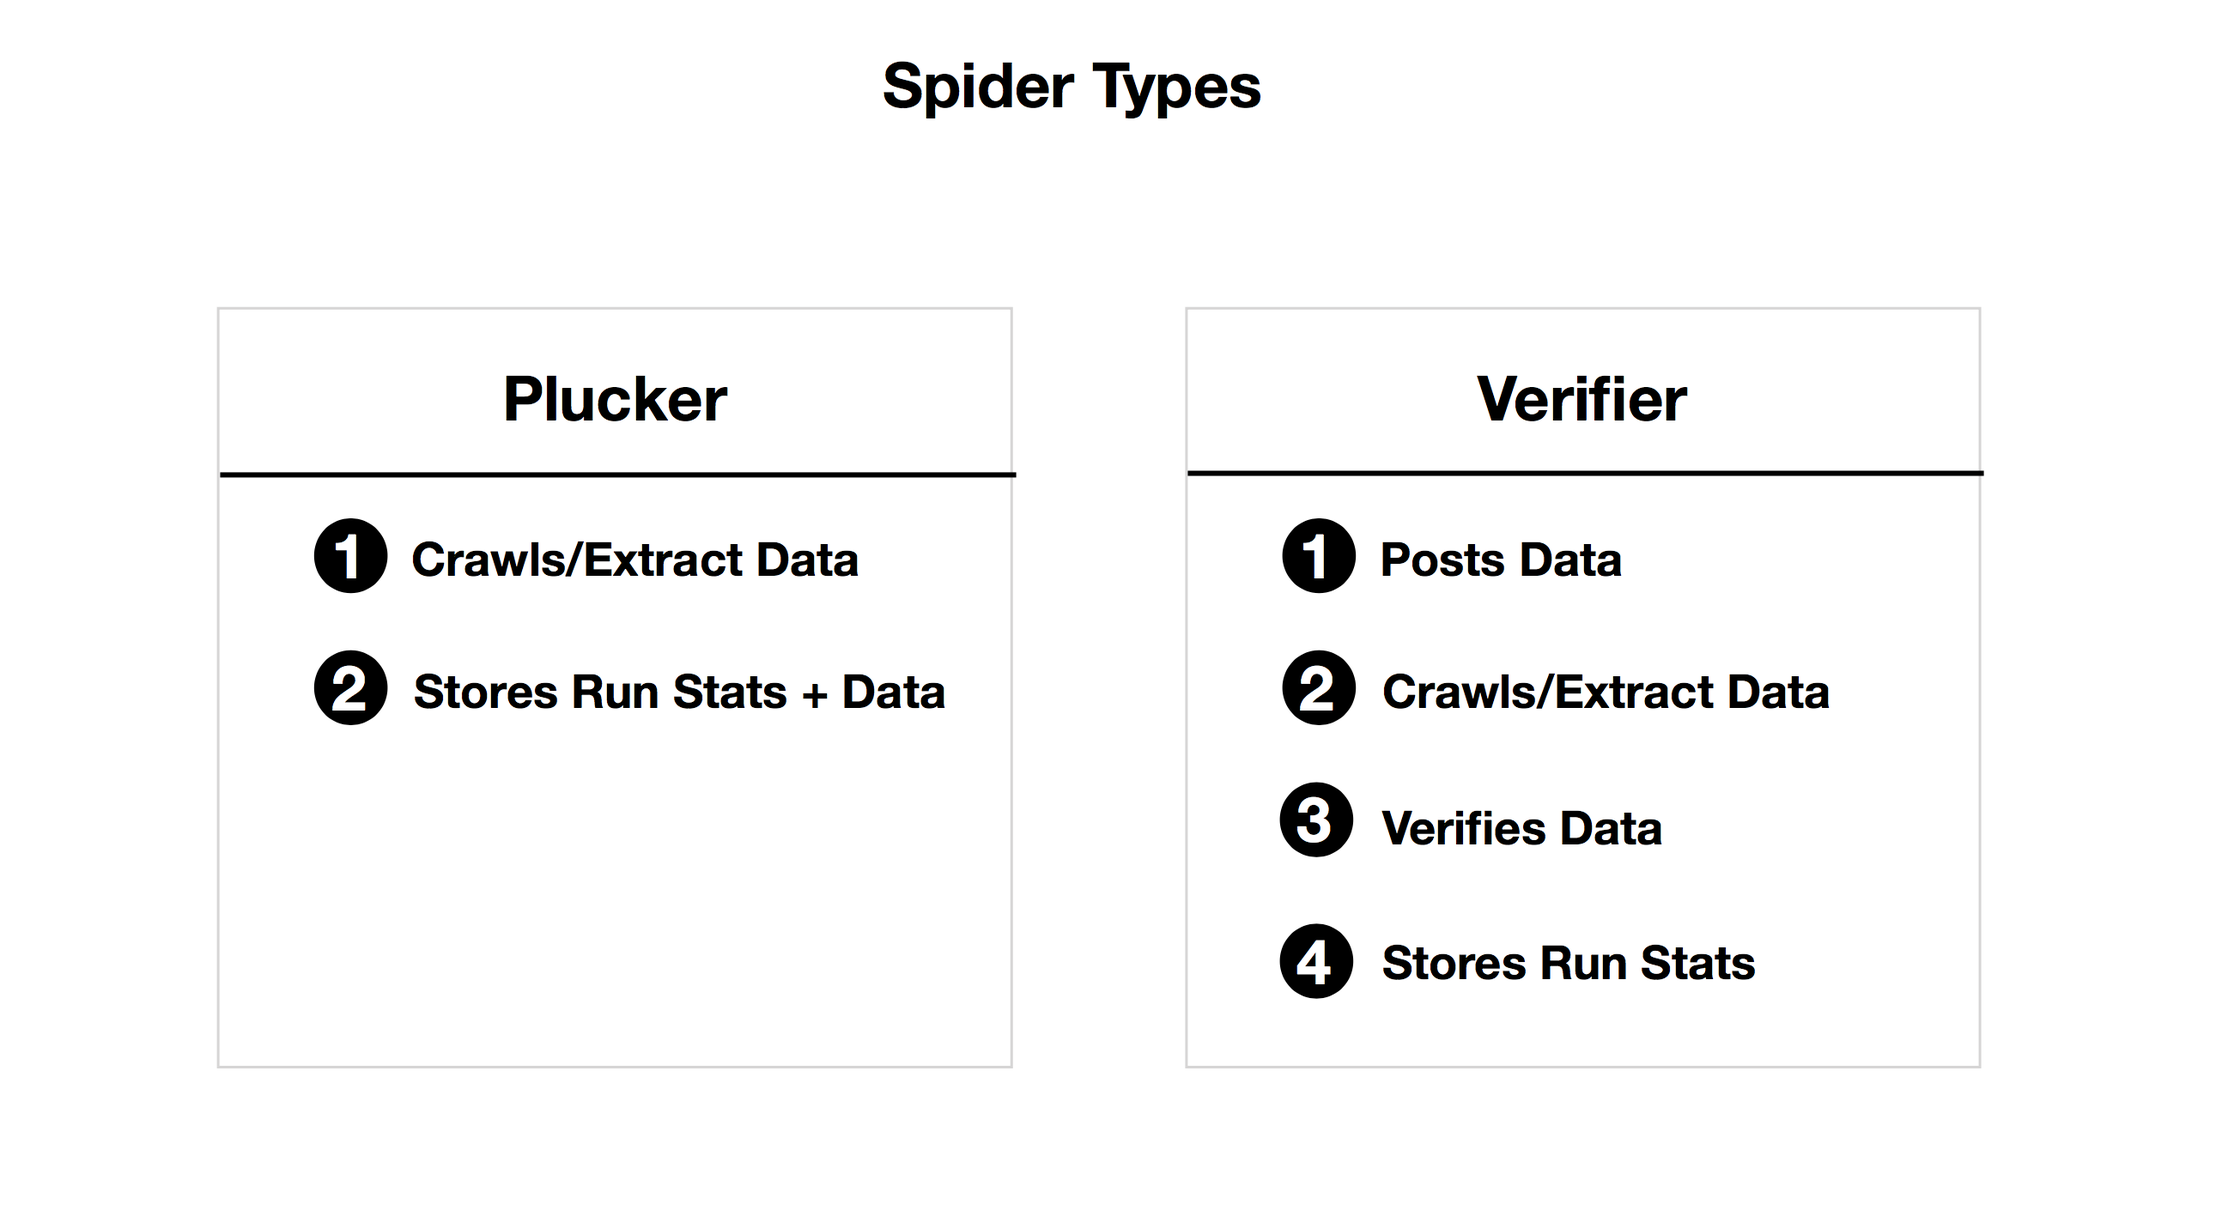
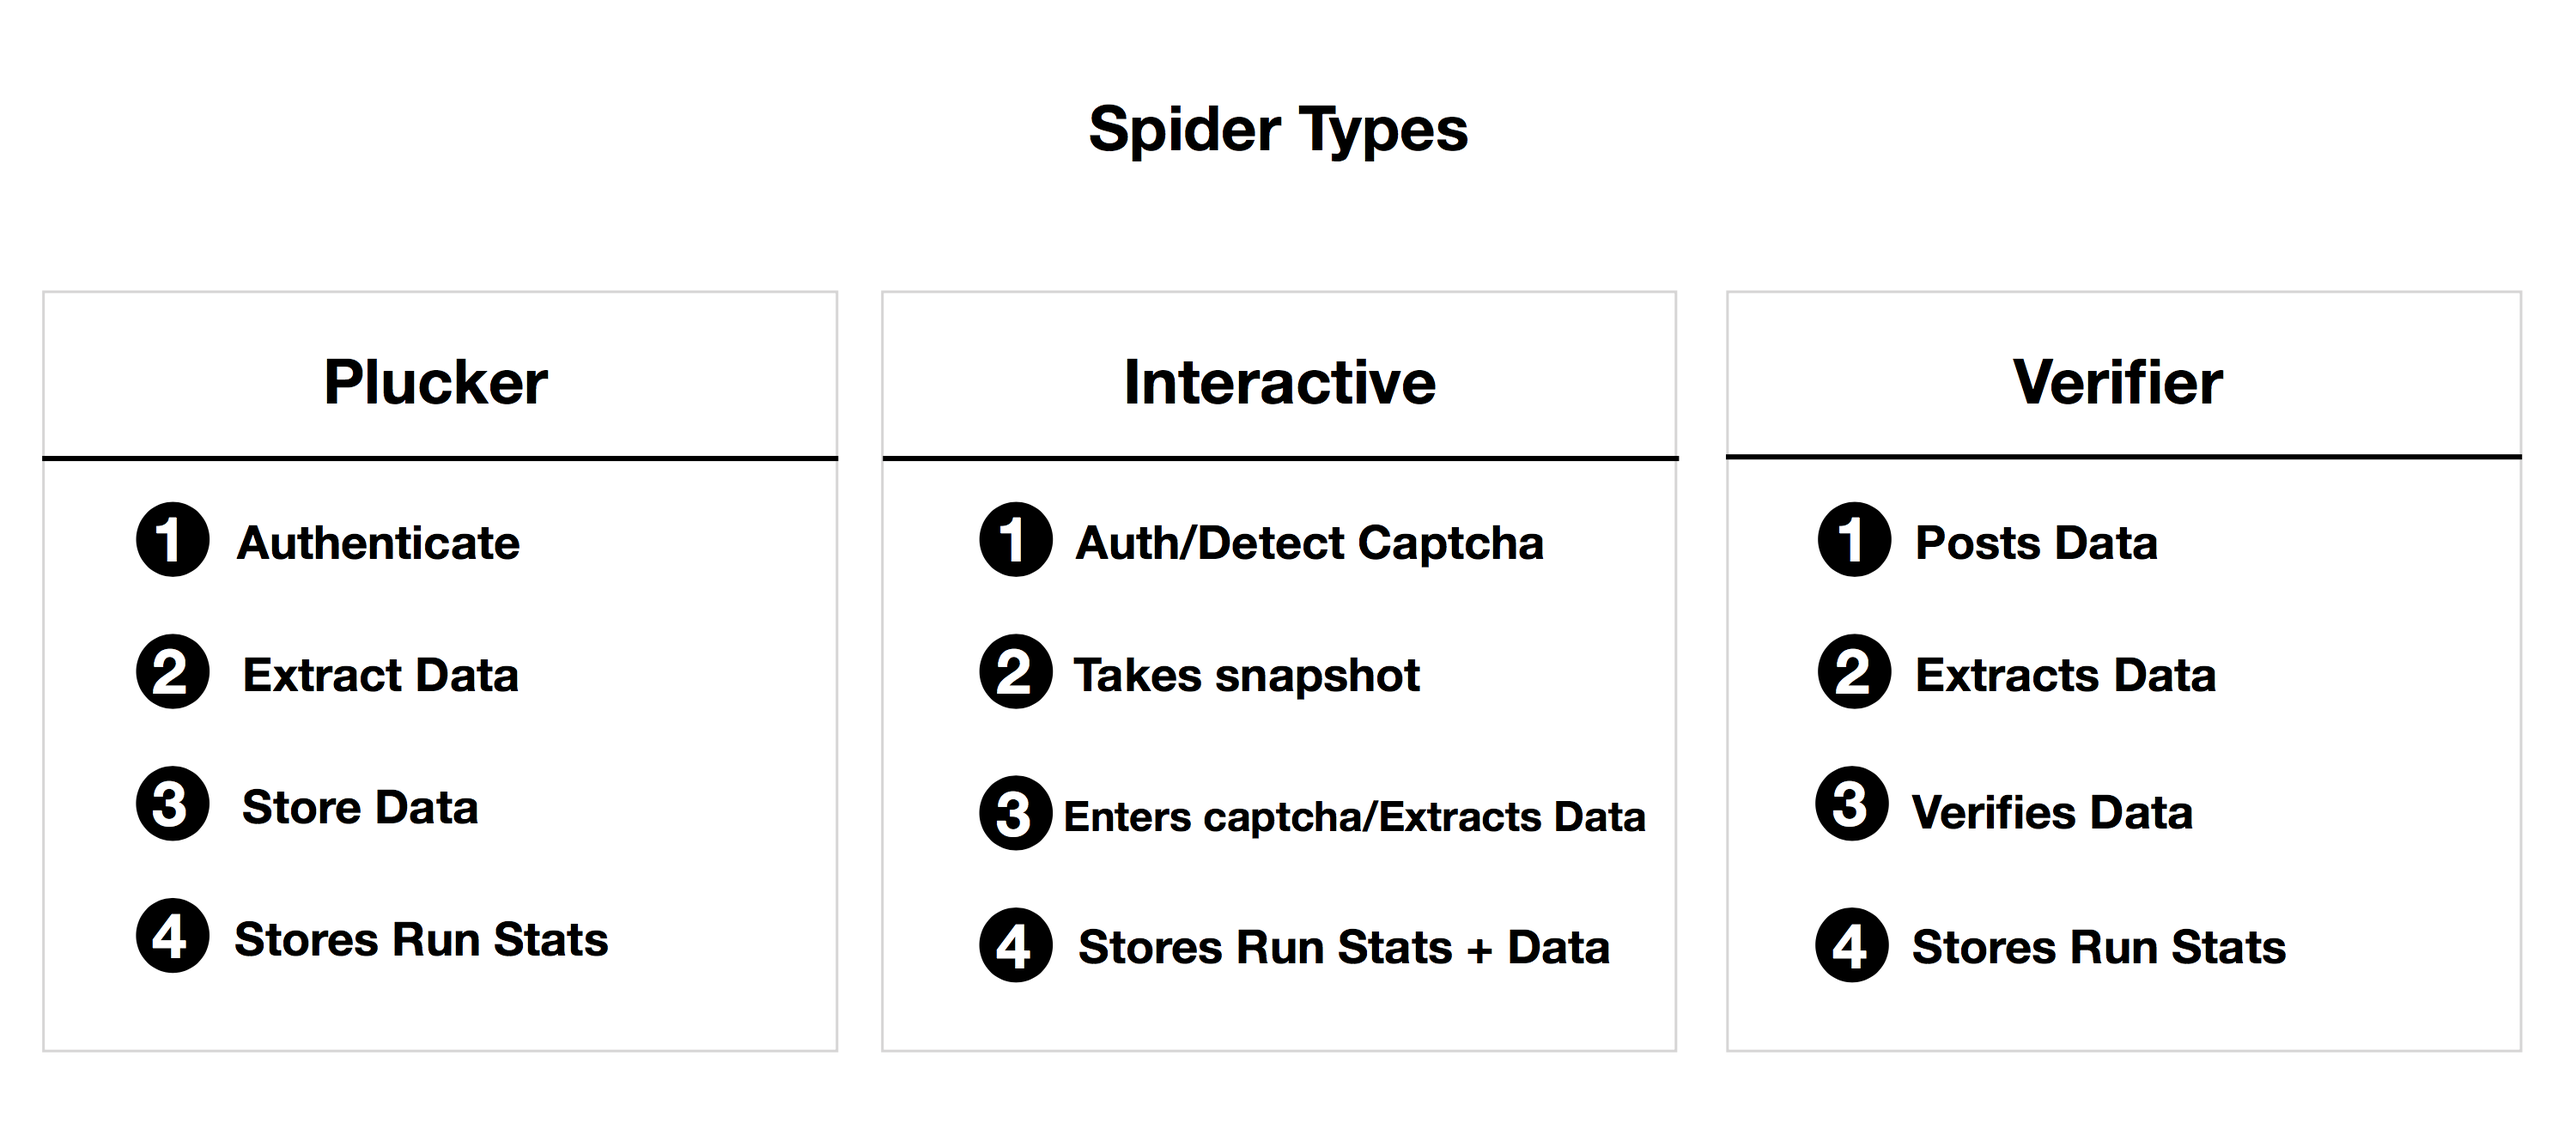
Updating readme with interactive crawler doc

diff --git a/README.md b/README.md
@@ -142,3 +142,11 @@ __Types of Spiders to Extract or Verify Data__
 ![](https://github.com/panchorifa/diaspora/blob/master/docs/spiders.png)
 
 ---------------------------------------
+
+__Interactive Crawler__
+
+---------------------------------------
+
+![](https://github.com/panchorifa/diaspora/blob/master/docs/interactive.png)
+
+---------------------------------------
